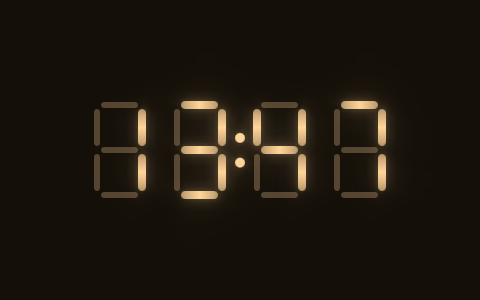
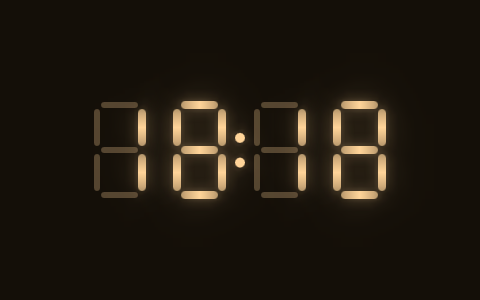
W263: SegmentChar draws NO ghost when the unlit weight is 0 (Segment snaps every stroke to an even integer >= 2 px, so the slider zero end still drew a 2 px ghost: ghost-ish pixels 480 -> 112 at 48 px with bloom 0, defaults untouched); baseline recorded after reading the diff, tracked clock SegmentC
post-commit advisory (auto-captured):
    ── post-commit advisory (non-blocking; gates ran pre-commit) ──
      Δ adequacy: not run per commit — run it as a capped service:
      PAPERKIT_SCRATCH=/var/tmp/paperkit-sweep python3 scripts/worklist_gate.py --discriminate
    opa_gate: partial: admitted — 0 deny, 0 withheld, 8 admitted

Changed region(s): [[0.6875, 0.36, 0.8125, 0.69], [0.3438, 0.36, 0.4062, 0.66], [0.5, 0.36, 0.625, 0.54]]

diff --git a/catalog/baselines/SegmentChar.qml b/catalog/baselines/SegmentChar.qml
@@ -107,7 +107,9 @@ Item {
         model: ["A", "B", "C", "D", "E", "F", "G"]
         Segment {
             seg: modelData
-            visible: sc.showGhost && !sc.isOn(modelData)
+            // a ghost weight of 0 is OFF: Segment snaps every stroke to an even integer of at least 2 px,
+            // so without this the slider's zero end still drew a 2 px ghost (W263, measured at 48 px)
+            visible: sc.showGhost && !sc.isOn(modelData) && sc.strokeGhost > 0
             color: sc.ghostColor
             opacity: sc.ghostAlpha * sc.glow
             thick: sc.strokeGhost

diff --git a/plasma-clock/org.el.segclock/contents/ui/SegmentChar.qml b/plasma-clock/org.el.segclock/contents/ui/SegmentChar.qml
@@ -107,7 +107,9 @@ Item {
         model: ["A", "B", "C", "D", "E", "F", "G"]
         Segment {
             seg: modelData
-            visible: sc.showGhost && !sc.isOn(modelData)
+            // a ghost weight of 0 is OFF: Segment snaps every stroke to an even integer of at least 2 px,
+            // so without this the slider's zero end still drew a 2 px ghost (W263, measured at 48 px)
+            visible: sc.showGhost && !sc.isOn(modelData) && sc.strokeGhost > 0
             color: sc.ghostColor
             opacity: sc.ghostAlpha * sc.glow
             thick: sc.strokeGhost

diff --git a/templates/SegmentChar.qml b/templates/SegmentChar.qml
@@ -107,7 +107,9 @@ Item {
         model: ["A", "B", "C", "D", "E", "F", "G"]
         Segment {
             seg: modelData
-            visible: sc.showGhost && !sc.isOn(modelData)
+            // a ghost weight of 0 is OFF: Segment snaps every stroke to an even integer of at least 2 px,
+            // so without this the slider's zero end still drew a 2 px ghost (W263, measured at 48 px)
+            visible: sc.showGhost && !sc.isOn(modelData) && sc.strokeGhost > 0
             color: sc.ghostColor
             opacity: sc.ghostAlpha * sc.glow
             thick: sc.strokeGhost
